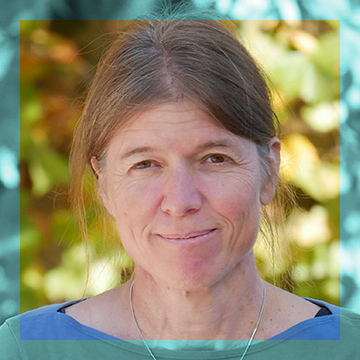
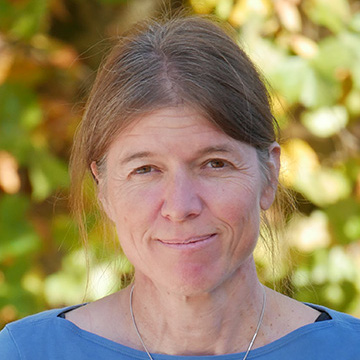
diverse bugfixes

diff --git a/slots/web/src/index.html b/slots/web/src/index.html
@@ -8,40 +8,29 @@
 <body>
 <div id="credits">
     <h1>&nbsp;</h1>
+    <img src="./logo.png" alt="Logo" style="width: 200px; position: absolute; top: 55px; left: 80px;">
+    <img src="./logo.png" alt="Logo" style="width: 200px; position: absolute; top: 55px; right: 80px;">
     <h1 style="margin-bottom: 0;">Spenden mit Spass</h1>
-    <a href="https://github.com/12ib21/RNG_spieletag25/" style="font-size: 11px; color: lightgray; margin-bottom: 5px; text-decoration: none;">https://github.com/12ib21/RNG_spieletag25</a>
-    <h2>Spende um zu beginnen...</h2>
+    <h2>Spende um zu Beginnen...</h2>
+    <div style="display: flex; align-items: center; font-size: 25px; text-align: center;">
+        <span>1. Um zu Spenden eine Beliebige Münze in den Schlitz (Linke Seite)<br> einwerfen (größere Münzen funtionieren besser).<br></span>
+        <span>2. Genieße als Zeichen unseres Dankes das Spiel<br></span>
+        <span>- Das Produkt weist in der Bedienweise gewisse Ähnlichkeiten mit dem Spiel "Slots" auf -</span>
+    </div>
     <div>
         <h3>Bilder:</h3>
-        <h4>rng-wangen.de/kollegium</h4>
-        <h4 style="font-size: 9px;">Bildrechte haben die gezeigten Personen!</h4>
+        <h4>www.rng-wangen.de</h4>
+        <h4 style="font-size: 10px;">Bildrechte haben die gezeigten Personen!</h4>
         <p>
 
         <h3>Programmierung:</h3>
         <h4>Iren Biggel</h4>
-        <p>
-
-        <h3>Musik:</h3>
-        <h4>Iren Biggel</h4>
-        <h4>Johannes Rasch</h4>
+        <a href="https://github.com/12ib21/RNG_spieletag25/" style="font-size: 11px; color: lightgray; margin-bottom: 5px; text-decoration: none;">https://github.com/12ib21/RNG_spieletag25</a>
         <p>
 
         <h3>Stimme:</h3>
         <h4>Sebastian Bohl</h4>
         <p>
-
-        <h3>Hardware:</h3>
-        <h4>Iren Biggel</h4>
-        <h4>Paul Lenz</h4>
-        <h4>Johannes Rasch</h4>
-        <p>
-
-        <h3>Test:</h3>
-        <h4>Johannes Rasch</h4>
-        <h4>Matthias Bietsch</h4>
-        <h4>Paul Lenz</h4>
-        <h4 style="font-size: 4px;">Jakob Horn</h4>
-
     </div>
     <span>&copy; 2024-2025 ~ All rights reserved</span>
 </div>

diff --git a/slots/web/webpack.config.js b/slots/web/webpack.config.js
@@ -3,6 +3,7 @@ const path = require("path");
 const {CleanWebpackPlugin} = require("clean-webpack-plugin");
 const HtmlWebpackPlugin = require("html-webpack-plugin");
 const MiniCssExtractPlugin = require("mini-css-extract-plugin");
+const CopyWebpackPlugin = require("copy-webpack-plugin");
 
 module.exports = {
     entry: ["./src/js/index.js", "./src/css/style.css", "./src/css/bootstrap.min.css"],
@@ -23,6 +24,12 @@ module.exports = {
         new HtmlWebpackPlugin({
             template: "./src/index.html",
             favicon: "./src/assets/favicon.ico",
+        }),
+        // Copy only the logo image into the dist root (no `assets/` subfolder)
+        new CopyWebpackPlugin({
+            patterns: [
+                { from: path.resolve(__dirname, "src/assets/logo.png"), to: "." },
+            ],
         }),
         new MiniCssExtractPlugin({
             filename: "main.[contenthash].css",

diff --git a/slots/web/src/js/Symbol.js b/slots/web/src/js/Symbol.js
@@ -39,11 +39,11 @@ export default class Symbol {
         return [
             "hengge",
             "krauss_bike",
-            "eska",
-            "worbs",
             "bohl",
+            "worbs",
             "boneberg",
             "breuer",
+            "eska",
             "knape",
             "kob",
             "petra",
@@ -53,7 +53,7 @@ export default class Symbol {
             "roth",
             "woerle",
             "walter",
-            "mueller_deuschle",
+            "vochezer",
             "rudolf",
             "gross",
             "bernhoerster",
